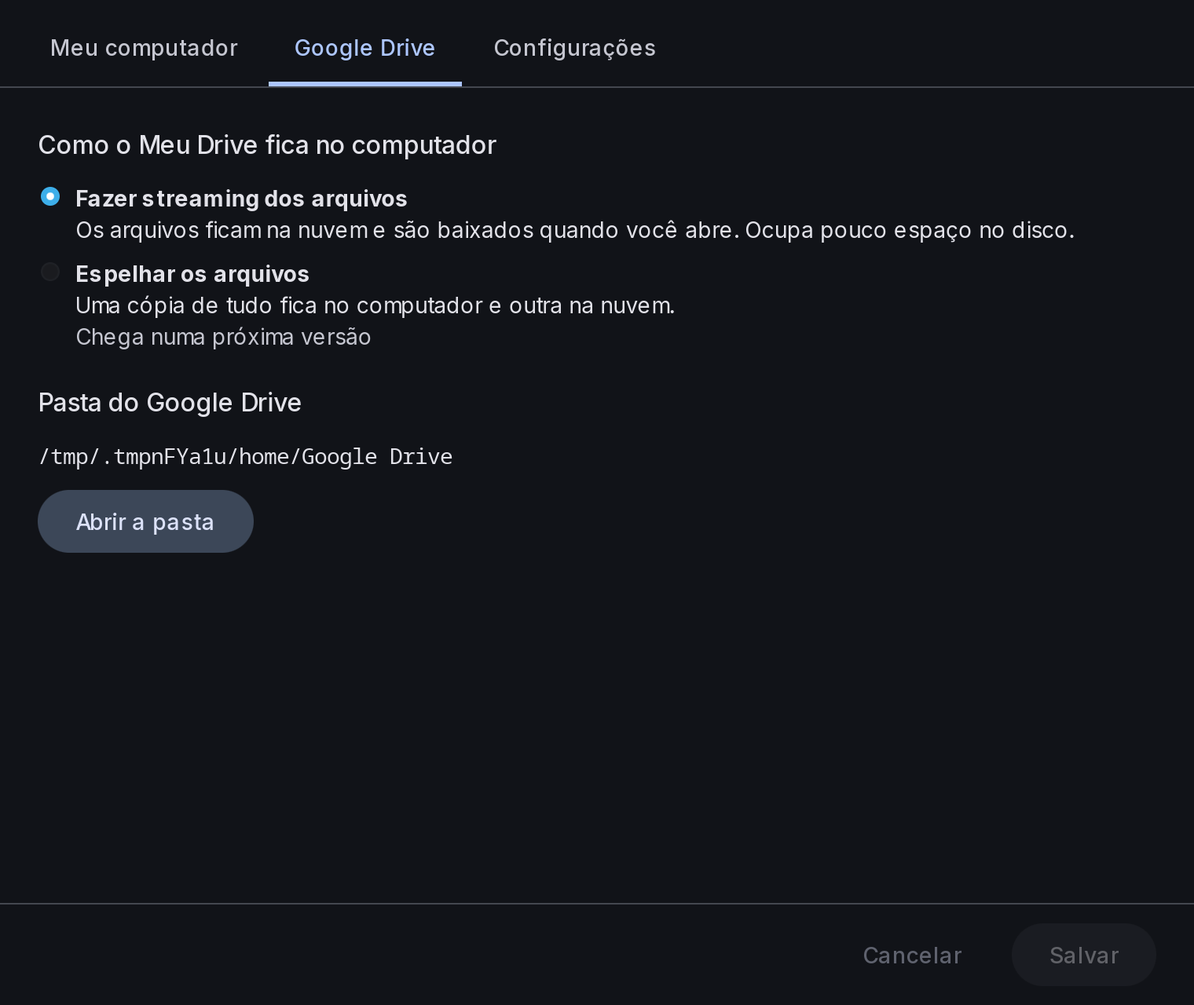
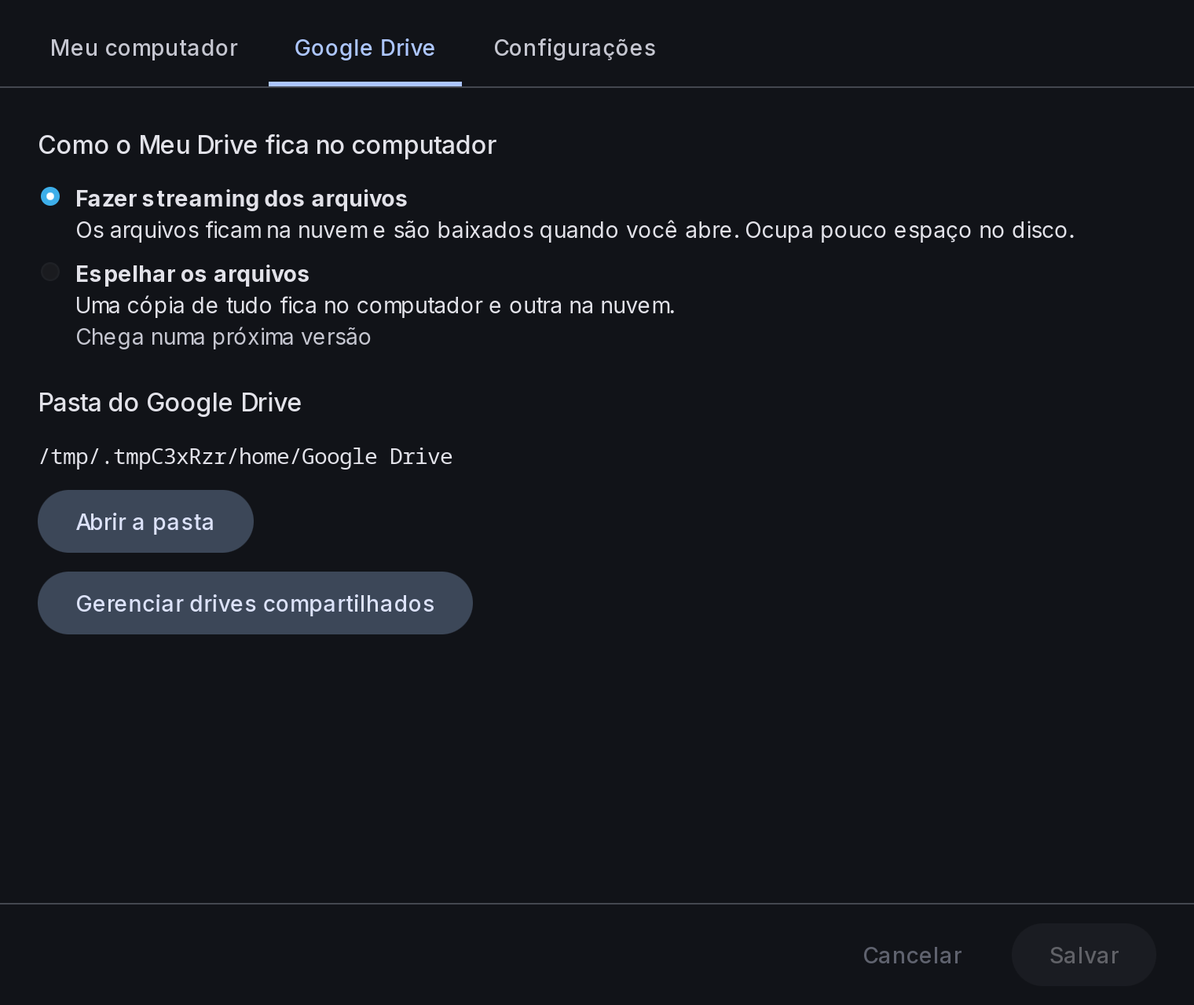
Versão 0.8.0
Matriz de paridade, CHANGELOG, README (contas, Drives compartilhados,
atalho no menu, CLI com --account) e as capturas novas de "Gerenciar
drives compartilhados" e "Adicionar atalho ao Drive".

Changed region(s): [[0.0309, 0.5625, 0.402, 0.6562], [0.1237, 0.4375, 0.1855, 0.4688]]

diff --git a/crates/gdl-ui/tests/e2e.rs b/crates/gdl-ui/tests/e2e.rs
@@ -1037,12 +1037,19 @@ async fn screenshots_for_the_readme() {
         ("preferences", "p.path", "Google Drive", "preferencias"),
         ("about", ".about-version", "0.", "sobre"),
         ("uninstall", ".uninstall", "", "desinstalar"),
+        (
+            "shared-drives",
+            ".drive-list",
+            "Equipe",
+            "drives-compartilhados",
+        ),
     ] {
         let session = Session::open(screen).await;
         session.wait_text(css, wanted).await;
         save(&session, name).await;
     }
     let (report, notes) = (item_id("relatório.pdf").await, item_id("notas.txt").await);
+    let sheet = item_id("Planilha.gsheet").await;
     for (screen, css, wanted, name) in [
         (
             format!("share:{report}"),
@@ -1055,6 +1062,12 @@ async fn screenshots_for_the_readme() {
             ".version-list",
             "Atual",
             "versoes",
+        ),
+        (
+            format!("shortcut:{sheet}"),
+            ".folder-list",
+            "Equipe",
+            "adicionar-atalho",
         ),
     ] {
         let session = Session::open(&screen).await;

diff --git a/docs/paridade.md b/docs/paridade.md
@@ -1,16 +1,16 @@
 # Matriz de paridade
 
 Situação de cada item do catálogo da [especificação](superpowers/specs/2026-10-25-gdrive-desktop-linux-design.md)
-(seção 6) no código, conferida na versão 0.7.0 (27/10/2026). A 1.0 sai quando todos os itens estiverem
+(seção 6) no código, conferida na versão 0.8.0 (27/10/2026). A 1.0 sai quando todos os itens estiverem
 **FEITO** ou registrados em "Diferenças conhecidas" no README como risco aceito.
 
 Legenda: **FEITO**, **PARCIAL** (existe, mas incompleto), **FALTA**.
 
 | Seções | FEITO | PARCIAL | FALTA |
 |---|---|---|---|
-| 6.1–6.6 (contas, pasta, cache, sincronização, backup, Drives compartilhados) | 35 | 9 | 27 |
-| 6.7–6.11 (janela principal, bandeja, pesquisa, Preferências, primeiro uso) | 57 | 4 | 18 |
-| 6.12–6.17 (Dolphin, compartilhar e versões, notificações, diagnóstico, políticas, MCP) | 40 | 6 | 29 |
+| 6.1–6.6 (contas, pasta, cache, sincronização, backup, Drives compartilhados) | 45 | 8 | 18 |
+| 6.7–6.11 (janela principal, bandeja, pesquisa, Preferências, primeiro uso) | 61 | 1 | 17 |
+| 6.12–6.17 (Dolphin, compartilhar e versões, notificações, diagnóstico, políticas, MCP) | 43 | 5 | 27 |
 
 Os pacotes `.deb` e `.rpm` exigidos pela 1.0 já saem em cada release (`packaging/nfpm.yaml`,
 `.github/workflows/release.yml`).
@@ -20,13 +20,13 @@ Os pacotes `.deb` e `.rpm` exigidos pela 1.0 já saem em cada release (`packagin
 | Versão | Entrega |
 |---|---|
 | 0.7 | Dolphin completo: ícones de status, submenu completo (abrir no Docs/Planilhas/Apresentações, copiar link dizendo o tipo de acesso), janelas "Compartilhar" e "Gerenciar versões", exclusão do Baloo ✅ |
-| 0.8 | Várias contas (até 4), uma montagem por conta, `DisableAddAccount`; Drives compartilhados na montagem, "Gerenciar drives compartilhados" e criar drive; "Adicionar atalho" no menu, escolhendo o local |
+| 0.8 | Várias contas (até 4), uma montagem por conta, `DisableAddAccount`; Drives compartilhados na montagem, "Gerenciar drives compartilhados" e criar drive; "Adicionar atalho" no menu, escolhendo o local ✅ |
 | 0.9 | Backup de pastas ("Meu computador"), pastas conectadas e "Computadores", modo Espelho com troca entre modos, dispositivos removíveis e NAS |
 | 0.10 | Diagnóstico, registro detalhado e feedback; notificações restantes e aviso de nova versão; servidor MCP; políticas restantes; ransomware e recuperação do banco |
 | 1.0 | Matriz toda conferida, "Diferenças conhecidas" no README |
 
 
-Legenda: FEITO, PARCIAL, FALTA. Caminhos relativos a `crates/`. Resumo geral: o app é de **uma conta só** (`daemon.rs`: `account: Mutex<Option<Account>>`), só Meu Drive, sem espelho, sem backup de pastas, sem Drives compartilhados.
+Legenda: FEITO, PARCIAL, FALTA. Caminhos relativos a `crates/`. Resumo geral: até 4 contas, cada uma com a própria montagem (Meu Drive e Drives compartilhados); ainda sem espelho e sem backup de pastas.
 
 ### 6.1 Contas e login
 
@@ -36,25 +36,25 @@ Legenda: FEITO, PARCIAL, FALTA. Caminhos relativos a `crates/`. Resumo geral: o 
 | Tempo limite de 5 min | FEITO | `daemon.rs:56` `LOGIN_TIMEOUT = 300 s`; `LoginError::Timeout` |
 | Botão "Gerar link" | FEITO | `locales/pt-BR/ui.ftl:235` `onboarding-generate-link`; `oauth.rs:197` `auth_url` |
 | Página de resultado própria | FEITO | `oauth.rs:261` `result_page` (login-success/login-failure) |
-| Até 4 contas simultâneas | FALTA | Só uma conta (`daemon.rs:251`); sem montagem por conta, sem `~/Google Drive (<e-mail>)` |
-| Adicionar, alternar, reautenticar, desconectar uma/todas | PARCIAL | Só login e logout da conta única (`daemon.rs:1334`); falta adicionar/alternar/reautenticar |
-| Erros com mensagem própria | PARCIAL | Existem Timeout, Denied, sem refresh token, "Sem conexão" (`oauth.rs:87`). Falta: conta já conectada, máximo atingido, conta bloqueada/desativada pela organização, "login demorando" |
+| Até 4 contas simultâneas | FEITO | `daemon/accounts.rs` (`MAX_ACCOUNTS = 4`), uma montagem por conta (`<pasta> (<e-mail>)` a partir da segunda); testes `second_account_mounts_beside_the_first`, `fifth_account_is_refused` |
+| Adicionar, alternar, reautenticar, desconectar uma/todas | FEITO | `home/account.js` (lista de contas, trocar, "Adicionar outra conta", "Entrar de novo"), `more.js` "Desconectar todas as contas" (`LogoutAll`); testes `signing_in_again_resumes_the_queue`, `logout_of_one_keeps_the_other_mounted` |
+| Erros com mensagem própria | PARCIAL | Timeout, Denied, sem refresh token, "Sem conexão", conta já conectada, máximo atingido, outra conta no "entrar de novo" e `DisableAddAccount` (`onboarding-login-failed-*`). Falta: conta bloqueada/desativada pela organização, "login demorando" |
 | Refresh token no Secret Service | FEITO | `gdl-drive/src/token_store.rs` (chaveiro do sistema) |
 | Fluxo de desconexão (contagem, 3 escolhas, confirmação, aviso off-line, progresso) | FEITO | `ui/screens/home/disconnect.js` (finish/move/discard com checkbox de confirmação, `disconnect-offline-warning`, `disconnect-progress`); `daemon.rs:logout` |
 | Política `AllowedAccountsPattern` | FEITO | `daemon.rs:781` `allowed()`; teste em `dbus_tests.rs` |
-| Política `DisableAddAccount` | FALTA | Chave declarada em `gdl-common/src/config.rs:113`, mas nenhum código a lê |
+| Política `DisableAddAccount` | FEITO | `begin_login` recusa `add-account-disabled` com uma conta conectada; o menu esconde "Adicionar outra conta" (`can_add_account`); teste `disable_add_account_keeps_only_the_first` |
 
 ### 6.2 Pasta do Drive: Stream e Espelho
 
 | Item | Situação | Evidência / o que falta |
 |---|---|---|
-| Stream: montagem FUSE por conta | PARCIAL | FUSE funcional (`gdl-fs/src/fs.rs`), mas só 1 conta |
+| Stream: montagem FUSE por conta | FEITO | `gdl-fs/src/fs.rs`, uma montagem por conta (`engine_at` acha a conta pelo caminho) |
 | Local padrão e `DefaultMountPoint`, aviso/alternativo se ocupado | FEITO | `daemon/mount.rs`, `daemon.rs:834` (`mount-moved`), teste `busy_mount_point_falls_back_to_numbered_folder`. O padrão por e-mail depende de multi-conta |
-| Conteúdo da montagem | PARCIAL | `gdl-fs/src/layout.rs`: Meu Drive, lixeira, Lost and Found, Uploads cancelados, `.shortcut-targets-by-id`. Faltam `Drives compartilhados` e `Computadores` (README admite) |
+| Conteúdo da montagem | PARCIAL | `gdl-fs/src/layout.rs`: Meu Drive, Drives compartilhados, lixeira, Lost and Found, Uploads cancelados, `.shortcut-targets-by-id`. Falta `Computadores` (0.9) |
 | Nomes pelo idioma / `DisableLocalizedVirtualFolders` | PARCIAL | Nomes via i18n (`Layout::new`); a política está em `config.rs:116` mas não é lida (nunca força inglês) |
 | "Locais" do Dolphin (`ShowMountPointInSidebar`) | FEITO | `gdl-daemon/src/desktop.rs`, `daemon.rs:477` |
 | Modo Espelho (pasta real, inotify + changes.list) | FALTA | Só texto desabilitado em `ui/screens/preferences.js:151` ("Chega numa próxima versão"); sem inotify/watcher |
-| Drives compartilhados sempre em Stream | FALTA | Não há suporte a Drives compartilhados |
+| Drives compartilhados sempre em Stream | FEITO | Os drives ficam na montagem (`Node::SharedDrives`); não há modo Espelho para eles |
 | Troca Espelho <-> Stream com salvaguardas | FALTA | Depende do Espelho |
 | Sem limite de 4 GB | FEITO | Sem limite no FUSE; upload retomável (`uploads.rs`) |
 | Documentos Google como ponteiros, abrir no navegador, copiar cria atalho + aviso | FEITO | `gdl-common/src/gdocs.rs`, `gdl-engine/src/gdocs.rs`, `gdl-cli open-pointer`, `notify-shortcut-*` |
@@ -96,7 +96,7 @@ Legenda: FEITO, PARCIAL, FALTA. Caminhos relativos a `crates/`. Resumo geral: o 
 | Detecção de ransomware (entropia, pausa, aviso com 3 opções) | FALTA | Nenhuma ocorrência de entropia/ransomware no código |
 | Limites do Drive em mensagens claras | PARCIAL | Cota cheia, limite diário de upload e sem permissão têm categoria e texto (`errors.rs`, `client.rs:120-123`). `DownloadQuotaExceeded` é mapeado mas sem mensagem própria. Faltam 100 níveis de pasta e 500 mil itens em Drive compartilhado |
 | Lista de erros: categorias, paginação, ações por item | FEITO | `ui/screens/errors.js` + `errors/model.js` (10 por página, Abrir pasta, Tentar de novo) |
-| Lista de erros: aviso de erros em outra conta + trocar de conta | FALTA | Depende de multi-conta |
+| Lista de erros: aviso de erros em outra conta + trocar de conta | PARCIAL | Avisos levam a conta (`Notification.account`) e o e-mail no corpo com mais de uma conta; a lista de erros ainda não avisa erros de outra conta |
 
 ### 6.5 Backup de pastas do computador e dispositivos
 
@@ -119,15 +119,15 @@ Legenda: FEITO, PARCIAL, FALTA. Caminhos relativos a `crates/`. Resumo geral: o 
 
 | Item | Situação | Evidência / o que falta |
 |---|---|---|
-| Drives compartilhados aparecem na montagem | FALTA | `layout.rs` não tem a pasta; `gdl-drive/src/client.rs` sem `drives.list`/`supportsAllDrives` |
-| Tela "Gerenciar drives compartilhados" (ligar/desligar, salvar/cancelar) | FALTA | Não existe tela |
+| Drives compartilhados aparecem na montagem | FEITO | `layout.rs` (`Drives compartilhados/<nome>`), `client.rs` (`supportsAllDrives`, `drives`); nomes repetidos ganham o fim do id (`drive_dir_names`); testes `shared_drive_folder_lists_enabled_drives`, `same_named_drives_get_distinct_folders` |
+| Tela "Gerenciar drives compartilhados" (ligar/desligar, salvar/cancelar) | FEITO | `ui/screens/shared-drives.js` (Preferências e menu na pasta "Drives compartilhados"); desligar com envio pendente é recusado; e2e `shared_drives_screen_saves_and_creates` |
 | Aviso de drive com alta atividade | FALTA | Não existe |
-| Criar Drive compartilhado (tela e menu de contexto, nome único) | FALTA | Não existe (menu em `gdl-daemon/src/menu.rs` só cobre itens do Meu Drive) |
+| Criar Drive compartilhado (tela e menu de contexto, nome único) | FEITO | `CreateSharedDrive` (nome único com " (2)"), "Novo Drive compartilhado" na tela e no menu da pasta "Drives compartilhados"; teste `new_drive_names_are_unique` |
 | "Compartilhados comigo": lista com data | FEITO | `ipc SharedItem.shared_ms`, `ui/screens/home/shared.js`, `search.rs:74` |
-| "Adicionar atalho" no local escolhido | PARCIAL | `search.rs:80 add_shortcut` põe sempre no Meu Drive (`shortcut-added = Atalho adicionado ao Meu Drive`); não escolhe o local |
+| "Adicionar atalho" no local escolhido | FEITO | Tela `shortcut.js` (Meu Drive e drives que aceitam itens, descendo pelas pastas), aberta pelo menu e por "Compartilhados comigo"; teste `shortcut_goes_to_the_chosen_folder`, e2e `shortcut_screen_picks_a_folder` |
 | "Abrir na web" | FEITO | `shared.js:23` (`open_item` target `web`) |
-| Avisos ao mover entre Drives compartilhados/pastas compartilhadas (com "não mostrar de novo") | FALTA | Nenhum aviso de mudança de permissão no `fs.rs` rename |
-| Mover pasta do Meu Drive para Drive compartilhado: não suportado e orienta web | FALTA | Sem tratamento |
+| Avisos ao mover entre Drives compartilhados/pastas compartilhadas (com "não mostrar de novo") | PARCIAL | Mover arquivo para um drive avisa `moved-to-shared-drive` (família que pode ser desligada); falta o aviso ao mover para pastas compartilhadas por outras pessoas |
+| Mover pasta do Meu Drive para Drive compartilhado: não suportado e orienta web | FEITO | `Engine::move_item` (`FolderCrossDrive` → `EPERM`) e aviso `folder-move-unsupported`; teste `moving_a_folder_into_a_shared_drive_is_refused` |
 
 
 Frontend: `crates/gdl-ui/ui/` (JS puro). Bandeja: `crates/gdl-tray/src/{model,main,hotkey}.rs`. Textos: `locales/*/{main,ui}.ftl`.
@@ -140,8 +140,8 @@ Frontend: `crates/gdl-ui/ui/` (JS puro). Bandeja: `crates/gdl-tray/src/{model,ma
 | "Última sincronização há…" | FEITO | `home/model.js` `lastSync` |
 | Botão Pausar/Retomar | FEITO | `home.js` `togglePause` |
 | Campo "Pesquisar no Google Drive" | FEITO | `home.js` `layout` (input `.search`, Enter abre tela `search`) |
-| Menu da conta: foto + uso de armazenamento | FEITO (1 conta) | `home/account.js` `accountMenu` (avatar, nome, e-mail, uso/total) |
-| Adicionar conta / trocar de conta | FALTA | Sem código multi-conta; `accountMenu` só tem Gerenciar armazenamento, Desconectar, Privacidade, Termos. `tray/main.rs:139` passa contas = 0 ou 1 |
+| Menu da conta: foto + uso de armazenamento | FEITO | `home/account.js` `accountMenu` (avatar, nome, e-mail, uso/total) |
+| Adicionar conta / trocar de conta | FEITO | `home/account.js` (lista com foto, e-mail e estado; trocar; adicionar); e2e `account_menu_switches_and_adds_accounts` |
 | Desconectar | FEITO | `home/disconnect.js` (com escolhas p/ pendências) |
 | Gerenciar armazenamento, Privacidade, Termos | FEITO | `account.js` (`openLink('storage'/'privacy'/'terms')`) |
 | Início: cartão Precisa de atenção | FEITO | `home/start.js` `attention` |
@@ -163,7 +163,7 @@ Frontend: `crates/gdl-ui/ui/` (JS puro). Bandeja: `crates/gdl-tray/src/{model,ma
 | Mais opções: registro detalhado liga/desliga | FALTA | Ausente |
 | Mais opções: gerar informações de diagnóstico | FALTA | Ausente (grep sem resultado) |
 | Mais opções: Redefinir preferências | FEITO | `more.js` `reset` -> `reset_preferences` |
-| Mais opções: Desconectar todas as contas | PARCIAL | Só "Desconectar" (conta única, `more.js`) |
+| Mais opções: Desconectar todas as contas | FEITO | `more.js` `disconnect-all` → `logout_all`, com o fluxo de desconexão |
 | Mais opções: Sair com confirmação se sincronizando | FEITO | `more.js` `quit` |
 | Extra (fora da spec): preferências de notificação | FEITO | `more.js` + `notification-settings.js` |
 | Atalho de teclado que foca o painel de status | FEITO | `home.js` `wire`: Ctrl+Shift+Alt+G -> `ui.header.focus()` |
@@ -175,7 +175,7 @@ Frontend: `crates/gdl-ui/ui/` (JS puro). Bandeja: `crates/gdl-tray/src/{model,ma
 | StatusNotifierItem via ksni | FEITO | `gdl-tray/src/main.rs` (impl `ksni::Tray`) |
 | Ícones: sincronizado, sincronizando (animado), erro, pausado, sem internet, sem login | FEITO | `tray/model.rs` `SYNC_ICONS`/`STILL_ICONS`; SVGs `assets/icons/hicolor/scalable/status/gdl-*.svg`; `animated()`/`icon_at` |
 | Tooltips: Tudo sincronizado, Sincronizando N, Sem internet (N), Pausado (N), Armazenamento cheio, Não fez login | FEITO | `model.rs` `from_status`; `main.ftl` tray-* |
-| Tooltip "Conectado com N contas" | PARCIAL | Chave `tray-accounts` e ramo `accounts > 1` existem, mas `main.rs:139` passa só 0/1 (sem multi-conta) |
+| Tooltip "Conectado com N contas" | FEITO | `tray/model.rs` (`status.accounts.len() > 1`) |
 | Clique esquerdo abre a janela principal | FEITO | `model.rs` `click: Action::Open("home")` (sem login: onboarding) |
 | Menu direito: Abrir pasta, Abrir no navegador, Pesquisar, Pausar/Retomar | FEITO | `model.rs` `items` |
 | Menu direito: Arquivos off-line, Lista de erros (contagem), Preferências, Sobre, Sair | FEITO | `model.rs` `items` |
@@ -193,7 +193,7 @@ Frontend: `crates/gdl-ui/ui/` (JS puro). Bandeja: `crates/gdl-tray/src/{model,ma
 | Sugestões recentes com campo vazio | FEITO | `search.js` `ask` -> `recent_items`; `search-recent` |
 | Mensagem "Nenhum item corresponde a…" | FEITO | `search.js` `search-none` |
 | Abrir resultado pela montagem (arquivo ou pasta) | FEITO | `search.js` `open` -> `open_item target:'file'` |
-| "Na conta selecionada" | PARCIAL | Só há uma conta |
+| "Na conta selecionada" | FEITO | `api.call` leva a conta mostrada (`state.js` `currentAccount`) |
 
 ### 6.10 Preferências
 
@@ -249,13 +249,13 @@ Legenda: FEITO / PARCIAL / FALTA. Caminhos relativos à raiz do repositório.
 | Compartilhar | FEITO | `Action::Share` abre a janela `share:<id>` (`ui/screens/share.js`). |
 | Copiar link (com aviso público/domínio/restrito) | FEITO | `Action::CopyLink` + `notify_link_copied` (`daemon/sharing.rs`, textos `notify-link-*`). |
 | Acesso off-line / Somente on-line (marca mista) | FEITO | `menu.rs:44-46,103-111` (`Offline::Mixed`), plugin Dolphin `gdrivemenu.cpp:93`. |
-| Adicionar atalho ao Google Drive | PARCIAL | Método D-Bus `add_shortcut` existe (`dbus.rs:161`, tela "Compartilhados"), mas não está no menu do botão direito. |
+| Adicionar atalho ao Google Drive | FEITO | `menu.rs` `Action::AddShortcut` (itens que não são atalhos) abre a tela `shortcut` |
 | Gerenciar versões | FEITO | `Action::Versions` abre a janela `versions:<id>` (só arquivos com versões). |
 | Ver lixeira | FEITO | `Action::Trash` (`menu.rs:51,153`). |
 | Atualizar pasta | FEITO | `Action::Refresh`. |
 | Enviar ou sincronizar esta pasta (fora da montagem) | FALTA | Sem ação; backup/sincronização de pastas é 🔜 no README. |
 | Adicionar ao espelho da conta 1–4 | FALTA | Sem modo espelho nem várias contas. |
-| Gerenciar / Criar drive compartilhado | FALTA | Sem Drives compartilhados (README 🔜). |
+| Gerenciar / Criar drive compartilhado | FEITO | `menu.rs` `NewSharedDrive`/`ManageSharedDrives` na pasta "Drives compartilhados" |
 | Criar novo documento, planilha, apresentação | FEITO | `Action::NewDocument/NewSpreadsheet/NewPresentation`, `menu.rs:47-49,67-77`. |
 | Perguntar ao Gemini (web) | FALTA | Nenhuma ação no menu (só cartão Gemini na janela principal). |
 | Miniaturas sem baixar (thumbnailLink) | FEITO | `crates/gdl-engine/src/thumbs/{seeder,freedesktop}.rs` (semeia o cache freedesktop com o `thumbnailLink`; não é um thumbnailer KIO próprio). |
@@ -312,7 +312,7 @@ Legenda: FEITO / PARCIAL / FALTA. Caminhos relativos à raiz do repositório.
 | ContentCacheMaxKbytes | FEITO | `engine.rs:168`. |
 | DefaultMountPoint | FEITO | `daemon.rs:1032-1035`, `mount.rs`. |
 | DefaultWebBrowser | FEITO | `gdl-common/src/browser.rs`, `config.rs:204`. |
-| DisableAddAccount | FALTA | Só lida em `config.rs:113`; sem consumidor (e sem várias contas). |
+| DisableAddAccount | FEITO | `begin_login` e `can_add_account` |
 | DisableExternalMediaSync | FALTA | Sem consumidor. |
 | DisableLocalizedVirtualFolders | FALTA | Sem consumidor. |
 | DisableMirroredMyDrive | FALTA | Sem consumidor (sem espelho). |

diff --git a/README.md b/README.md
@@ -4,7 +4,7 @@
 
 # gdrive-desktop-linux
 
-![Versão](https://img.shields.io/badge/vers%C3%A3o-0.7.0-blue)
+![Versão](https://img.shields.io/badge/vers%C3%A3o-0.8.0-blue)
 ![Situação](https://img.shields.io/badge/situa%C3%A7%C3%A3o-pr%C3%A9via-orange)
 ![Licença](https://img.shields.io/badge/licen%C3%A7a-GPL--3.0-green)
 ![Linguagem](https://img.shields.io/badge/Rust-%E2%9C%93-b7410e)
@@ -35,19 +35,20 @@ Este projeto quer preencher essa lacuna com um app **nativo de Linux**, feito do
 
 | Área | Situação |
 |---|---|
-| **Pasta do Drive** | ✅ Todo o Meu Drive em `~/Google Drive/Meu Drive`; os arquivos ficam na nuvem e são baixados só quando você abre (e só os trechos lidos). |
+| **Pasta do Drive** | ✅ Todo o Meu Drive em `~/Google Drive/Meu Drive` e os Drives compartilhados em `~/Google Drive/Drives compartilhados`; os arquivos ficam na nuvem e são baixados só quando você abre (e só os trechos lidos). |
 | **Off-line** | ✅ "Disponível off-line" em arquivos e pastas; as alterações feitas sem internet sobem quando a conexão volta. |
 | **Sincronização** | ✅ Envio e recebimento automáticos, fila que sobrevive a reinícios, conflitos guardados no Lost and Found, lixeira, limites de banda e pausa. |
 | **Documentos Google** | ✅ Docs, Planilhas e Apresentações aparecem na pasta e abrem no navegador com duplo clique. |
 | **Bandeja e janela** | ✅ Ícone na bandeja, janela principal, atividade com progresso, pesquisa rápida, erros, arquivos off-line, preferências, notificações e menu da conta com foto e uso do espaço. |
 | **Primeiro uso** | ✅ Guia do Client ID dentro do app, com botões que abrem cada página do Google Cloud. |
 | **Miniaturas** | ✅ As imagens aparecem com miniatura no Dolphin e em outros gerenciadores, usando as miniaturas do próprio Google, sem baixar os arquivos. |
-| **Menu do botão direito** | ✅ Abrir no navegador, copiar link (com o aviso de quem pode abrir), off-line / só on-line, novo Documento, Planilha ou Apresentação, atualizar e lixeira, no Dolphin, Nautilus, Nemo, Caja, Thunar e COSMIC Files. |
+| **Menu do botão direito** | ✅ Abrir no navegador, copiar link (com o aviso de quem pode abrir), adicionar atalho ao Drive, off-line / só on-line, novo Documento, Planilha ou Apresentação, atualizar e lixeira, no Dolphin, Nautilus, Nemo, Caja, Thunar e COSMIC Files. |
 | **Compartilhar e versões** | ✅ Pelo menu do botão direito: janela Compartilhar (pessoas, papéis, acesso geral e link), Gerenciar versões (baixar, restaurar, manter para sempre) e arquivos do Office abertos no Docs, Planilhas ou Apresentações. |
 | **Instalação e remoção** | ✅ Pacotes `.deb`, `.rpm`, Arch e `.tar.gz`, e um desinstalador com a opção de apagar também os dados do computador. |
 | **Ícones de status** | ✅ Na nuvem, off-line, sincronizando e em conflito, no Dolphin. A pasta do Drive fica fora do indexador do KDE (Baloo), que baixaria tudo para ler. |
 | **Backup e espelho** | 🔜 Backup de pastas do computador para o Drive e o modo espelho (cópia completa no computador). |
-| **Contas** | 🔜 Várias contas Google ao mesmo tempo e Drives compartilhados. |
+| **Contas** | ✅ Até 4 contas Google ao mesmo tempo, cada uma com a própria pasta, trocadas pelo menu da conta. |
+| **Drives compartilhados** | ✅ Na pasta de cada conta, com a janela "Gerenciar drives compartilhados" para escolher quais aparecem e criar um novo. |
 
 A lista completa e detalhada fica na especificação em [`docs/`](docs/).
 
@@ -57,13 +58,15 @@ A lista completa e detalhada fica na especificação em [`docs/`](docs/).
 |---|---|
 | ![Guia do Client ID no primeiro uso](docs/imagens/primeiro-uso.png) | ![Lista de envios e downloads com o status de cada um](docs/imagens/atividade.png) |
 | **Menu da conta** | **Pesquisa rápida** |
-| ![Menu da conta com a foto, o e-mail e o uso do espaço](docs/imagens/menu-da-conta.png) | ![Pesquisa rápida com três resultados](docs/imagens/pesquisa.png) |
+| ![Menu da conta com a foto, o uso do espaço e "Adicionar outra conta"](docs/imagens/menu-da-conta.png) | ![Pesquisa rápida com três resultados](docs/imagens/pesquisa.png) |
 | **Arquivos off-line** | **Preferências** |
 | ![Uso do disco e itens off-line](docs/imagens/arquivos-off-line.png) | ![Aba Google Drive das preferências](docs/imagens/preferencias.png) |
 | **Sobre** | **Desinstalar** |
 | ![Tela Sobre com a versão e a licença](docs/imagens/sobre.png) | ![Janela que pergunta se apaga também os dados do computador](docs/imagens/desinstalar.png) |
 | **Compartilhar** | **Gerenciar versões** |
 | ![Janela Compartilhar com as pessoas, os papéis e o acesso geral](docs/imagens/compartilhar.png) | ![Versões guardadas de um arquivo, da atual para a mais antiga](docs/imagens/versoes.png) |
+| **Gerenciar drives compartilhados** | **Adicionar atalho ao Drive** |
+| ![Lista de Drives compartilhados com uma chave para cada um](docs/imagens/drives-compartilhados.png) | ![Escolha da pasta do atalho: o Meu Drive e os Drives compartilhados](docs/imagens/adicionar-atalho.png) |
 
 ## Como funciona
 
@@ -161,16 +164,20 @@ como é o padrão no Linux; quem instalou pelo `.tar.gz` também pode rodar `./u
 guia a criação do seu Client ID parte por parte, com botões que abrem cada página do Google Cloud
 e copiam os valores (o mesmo passo a passo do [guia](docs/guia-client-id.md)). Depois, cole o
 Client ID e o segredo e entre pelo navegador. A pasta aparece em `~/Google Drive/Meu Drive`.
+Outras contas entram pelo menu da conta ("Adicionar outra conta") e ganham a própria pasta,
+`~/Google Drive (<e-mail>)`.
 
 Na bandeja: estado da sincronização, pausar/retomar, pesquisa (também pelo atalho global, se o
 portal do KDE aceitar), lista de erros, arquivos off-line, preferências e sair. A janela
 principal tem o Início, a atividade com progresso e "Cancelar envio", os compartilhados comigo e
 o histórico de notificações.
 
-**Menu do botão direito:** nos arquivos e pastas do Meu Drive aparece o submenu **Google Drive**,
-com abrir no navegador, copiar link, Disponível off-line / Somente on-line (marcado conforme o
-estado atual), novo Documento, Planilha ou Apresentação Google na pasta, atualizar a pasta e ver
-a lixeira. Fora do Meu Drive ele não aparece.
+**Menu do botão direito:** nos arquivos e pastas do Meu Drive e dos Drives compartilhados aparece
+o submenu **Google Drive**, com abrir no navegador, compartilhar, copiar link, gerenciar versões,
+adicionar atalho ao Drive, Disponível off-line / Somente on-line (marcado conforme o estado
+atual), novo Documento, Planilha ou Apresentação Google na pasta, atualizar a pasta e ver a
+lixeira. Na pasta "Drives compartilhados" ele cria um drive novo e abre "Gerenciar drives
+compartilhados". Fora da pasta do Drive ele não aparece.
 
 | Gerenciador | Como funciona |
 |---|---|
@@ -182,11 +189,11 @@ Também há uma CLI:
 
 | Comando | O que faz |
 |---|---|
-| `login` / `status` | entra na conta / conta, pasta, envios pendentes |
+| `login` / `status [--account <e-mail>]` | entra numa conta / conta, pasta, envios pendentes |
 | `pin <caminho>` / `unpin <caminho>` | deixa disponível off-line / só on-line |
 | `pause` / `resume` | pausa e retoma a sincronização |
 | `lost-and-found` | lista as edições guardadas por conflito |
-| `logout [--finish \| --move <pasta> \| --discard]` | sai da conta, decidindo o que fazer com envios pendentes (o Lost and Found nunca é apagado) |
+| `logout [--account <e-mail> \| --all] [--finish \| --move <pasta> \| --discard]` | sai de uma conta ou de todas, decidindo o que fazer com envios pendentes (o Lost and Found nunca é apagado) |
 | `open-pointer <arquivo>` | abre um `.gdoc`, `.gsheet`… no navegador (usado pelo duplo clique) |
 | `menu-action <ação> <caminho>…` | faz uma ação do menu do botão direito (usado pelo COSMIC Files) |
 | `uninstall [--purge] [--yes]` | desinstala o app; `--purge` apaga também os dados deste computador (desconecte a conta antes) |
@@ -197,8 +204,9 @@ Limitações conhecidas:
   o conteúdo não se perde, mas no Drive o arquivo ganha um ID novo e o antigo vai para a lixeira
   (links compartilhados do antigo deixam de valer). Com `set backupcopy=yes` o ID se mantém.
 - Uma pasta criada aqui que ainda não subiu, mandada para a lixeira, some só deste computador.
-- Ainda sem os ícones de status no gerenciador de arquivos, backup de pastas, modo espelho e várias
-  contas (veja o roteiro abaixo).
+- Uma conta que ainda não terminou a primeira leitura do Drive e não consegue subir na partida
+  (sem internet ou com o login expirado) fica fora da lista até a próxima partida.
+- Ainda sem backup de pastas e modo espelho (veja o roteiro abaixo).
 
 Roteiro de teste manual (e o que já foi conferido): [docs/testes](docs/testes/README.md).
 
@@ -215,8 +223,8 @@ Cada etapa sai funcionando antes da próxima.
 | 0.4 | Instaladores para as distribuições e desinstalador |
 | 0.5 | Menu do botão direito em todos os gerenciadores |
 | 0.6 | Desempenho: CPU parada, pastas grandes, download e envios em paralelo |
-| 0.7 | Dolphin completo: ícones de status, janelas de compartilhar e de versões ← **estamos aqui** |
-| 0.8 | Várias contas e Drives compartilhados |
+| 0.7 | Dolphin completo: ícones de status, janelas de compartilhar e de versões |
+| 0.8 | Várias contas e Drives compartilhados ← **estamos aqui** |
 | 0.9 | Backup de pastas, pastas conectadas e modo espelho |
 | 0.10 | Diagnóstico e feedback, notificações restantes, servidor MCP, políticas restantes |
 | 1.0 | Paridade com a versão Windows, item a item na [matriz de paridade](docs/paridade.md) |

diff --git a/CHANGELOG.md b/CHANGELOG.md
@@ -7,6 +7,37 @@ O formato segue o [Keep a Changelog](https://keepachangelog.com/pt-BR/1.1.0/), e
 
 ## [Não lançado]
 
+## [0.8.0] - 2026-10-27
+
+### Adicionado
+- Várias contas: até 4 ao mesmo tempo, cada uma com a própria pasta (a primeira continua em
+  `~/Google Drive`, as outras em `~/Google Drive (<e-mail>)`), o próprio cache e a própria fila.
+  O menu da conta lista as contas, troca a conta mostrada, adiciona outra (reaproveitando o
+  Client ID da primeira) e mostra "Entrar de novo" na conta cujo acesso expirou. As outras seguem
+  sincronizando enquanto isso.
+- "Desconectar todas as contas" em "Mais opções", com o mesmo fluxo de desconexão.
+- Política `DisableAddAccount`; recusa com mensagem própria para conta já conectada, máximo de
+  contas atingido e login feito com outra conta no "entrar de novo".
+- Drives compartilhados na pasta "Drives compartilhados" de cada conta, com ícones de status,
+  menu, miniaturas, pesquisa e Compartilhar. Drives com o mesmo nome ganham pastas distintas.
+- Janela "Gerenciar drives compartilhados" (Preferências e menu do botão direito): ligar e
+  desligar cada drive, com Salvar e Cancelar, e criar um Drive compartilhado novo.
+- Mover um arquivo para um Drive compartilhado avisa que quem vê o arquivo muda; mover uma pasta
+  do Meu Drive para um drive é recusado com um aviso que orienta a fazer isso pela web.
+- "Adicionar atalho ao Drive" no menu do botão direito e em "Compartilhados comigo", escolhendo a
+  pasta: o Meu Drive ou um Drive compartilhado que aceita itens novos, descendo pelas subpastas.
+- A bandeja diz com quantas contas está conectada; "Pausar" e "Retomar" valem para todas.
+
+### Mudado
+- O D-Bus recebe a conta nos métodos que não trazem caminho, e `Status` lista as contas.
+  A linha de comando ganha `--account <e-mail>`.
+
+### Corrigido
+- Um arquivo aberto podia dar erro de leitura logo depois que o envio terminava e o id
+  provisório virava o id do Drive.
+- O número de envios pendentes contava as tarefas da fila, não os arquivos (um arquivo editado
+  duas vezes contava dois).
+
 ## [0.7.0] - 2026-10-27
 
 ### Adicionado
